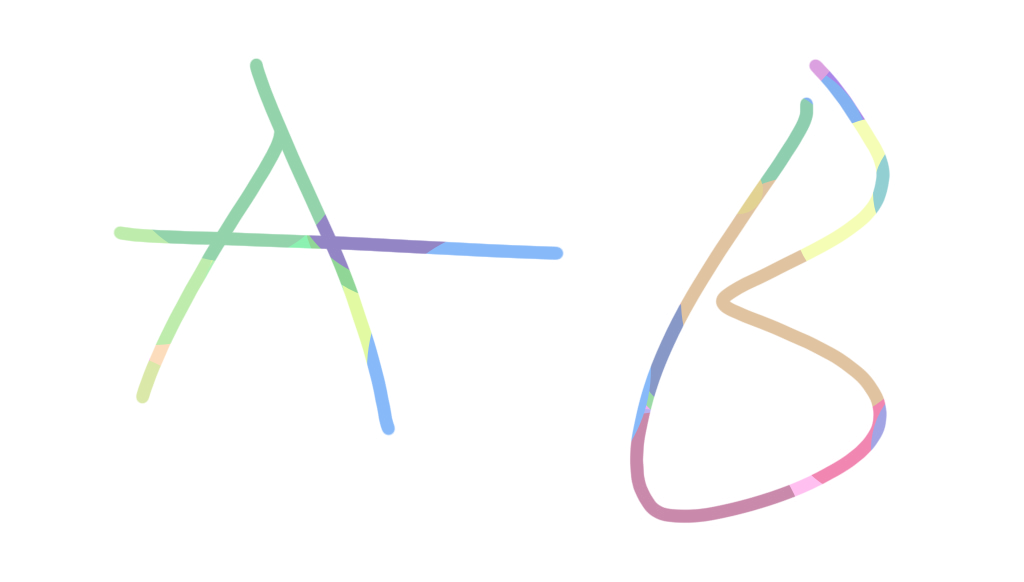
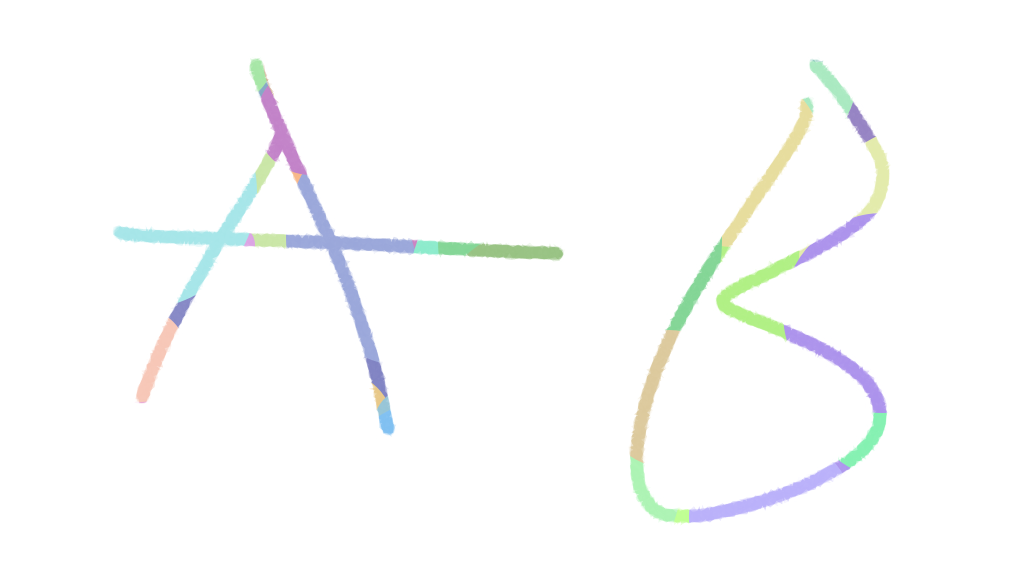
+test code

diff --git a/RandomTextColor.cpp b/RandomTextColor.cpp
@@ -77,7 +77,10 @@ inline std::vector< std::array< QPointF, 3 > > toRandomTriangle(int argWidth, in
 inline QImage toRandomTriangle(const QImage & arg) {
 
     auto varTriangles =
-        toRandomTriangle(arg.width(), arg.height(), 3 );
+        toRandomTriangle(
+            arg.width(), 
+            arg.height(),
+            4 /*晶格大小*/ );
 
     QImage varAns = arg.convertToFormat(QImage::Format_RGBA64);
 
@@ -105,8 +108,9 @@ inline QImage toRandomTriangle(const QImage & arg) {
             y = std::min(varMaxY, static_cast<int>(varRY));
         }
 
-        auto varColor = arg.pixelColor(x, y);
-        varPainter.setBrush( varColor );
+        auto varColor = std::min(255,
+            qGray( arg.pixel (x, y) ) + ( std::rand()&15)) ;
+        varPainter.setBrush(QColor(varColor,varColor,varColor));
 
         assert(varI.size() == 3);
         varPainter.drawPolygon(varI.data(), 3);
@@ -274,8 +278,31 @@ public:
             QImage::Format_RGBA64
         );
 
-        mmmOutputImage = toRandomTriangle(mmmInputImage);
-        mmmOutputImage.save("xxxx.debug.png");
+        {
+            auto varTmpImage = toRandomTriangle(mmmInputImage);
+            mmmOutputImage =
+                mix_image(mmmInputImage, varTmpImage,
+                    [](
+                        const CurrentColor & argInputColor0,
+                        const CurrentColor & argInputColor1,
+                        CurrentAnsColor argAnsColor,
+                        int,
+                        int,
+                        int,
+                        int) -> void {
+                Color varInput0{ *(argInputColor0.color) };
+                Color varInput1{ *(argInputColor1.color) };
+                auto varF = [](double a, double b)->double {
+                    const auto var = (std::rand()&255)/1024 + 0.5 ;
+                    return std::clamp(a * (1 - var) + b * var, 0., 1.);
+                };
+                Color varAns{ varF(varInput0.r,varInput1.r),
+                    varF(varInput0.g,varInput1.g),
+                    varF(varInput0.b,varInput1.b),1 };
+                *(argAnsColor.color) = varAns;
+            });
+            mmmInputImage = mmmOutputImage;
+        }
 
         create_mask_image();
         mmmOutputImage = /*滤色*/
